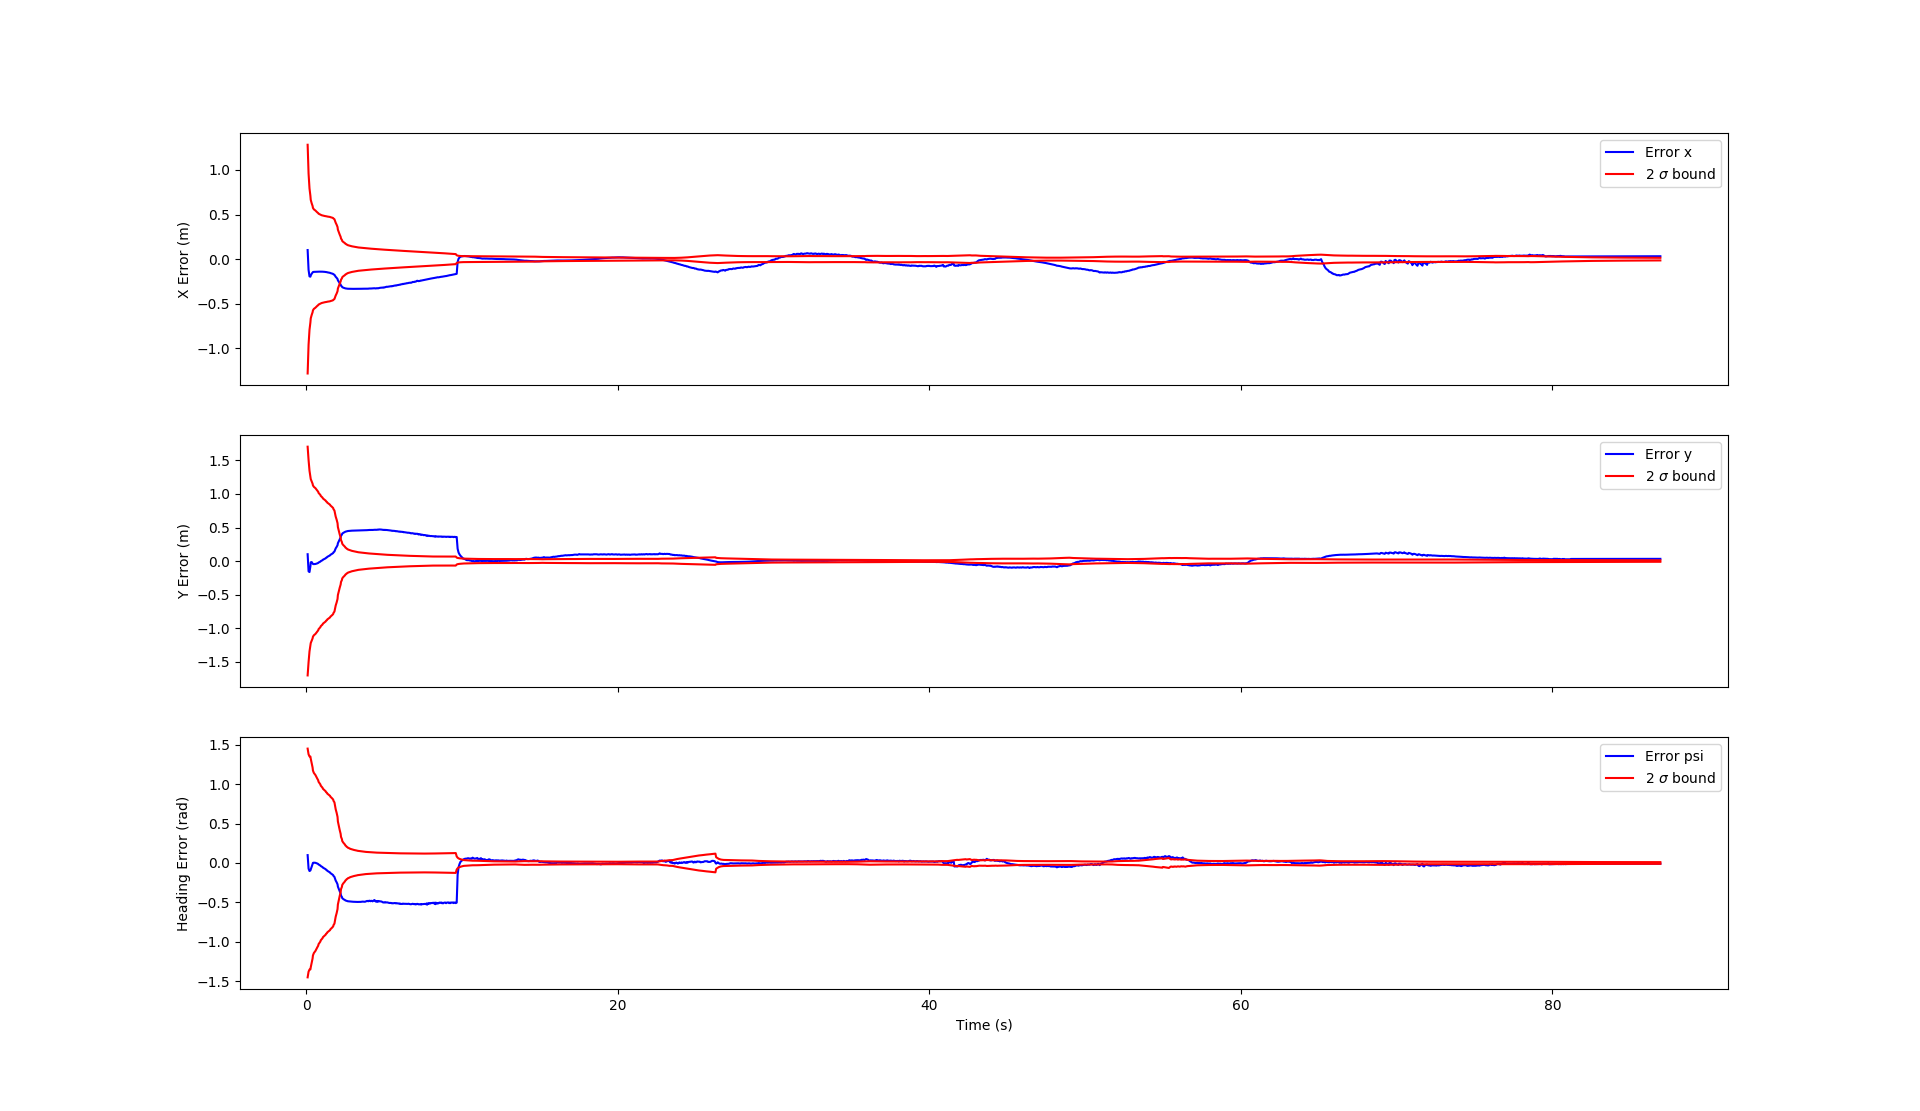
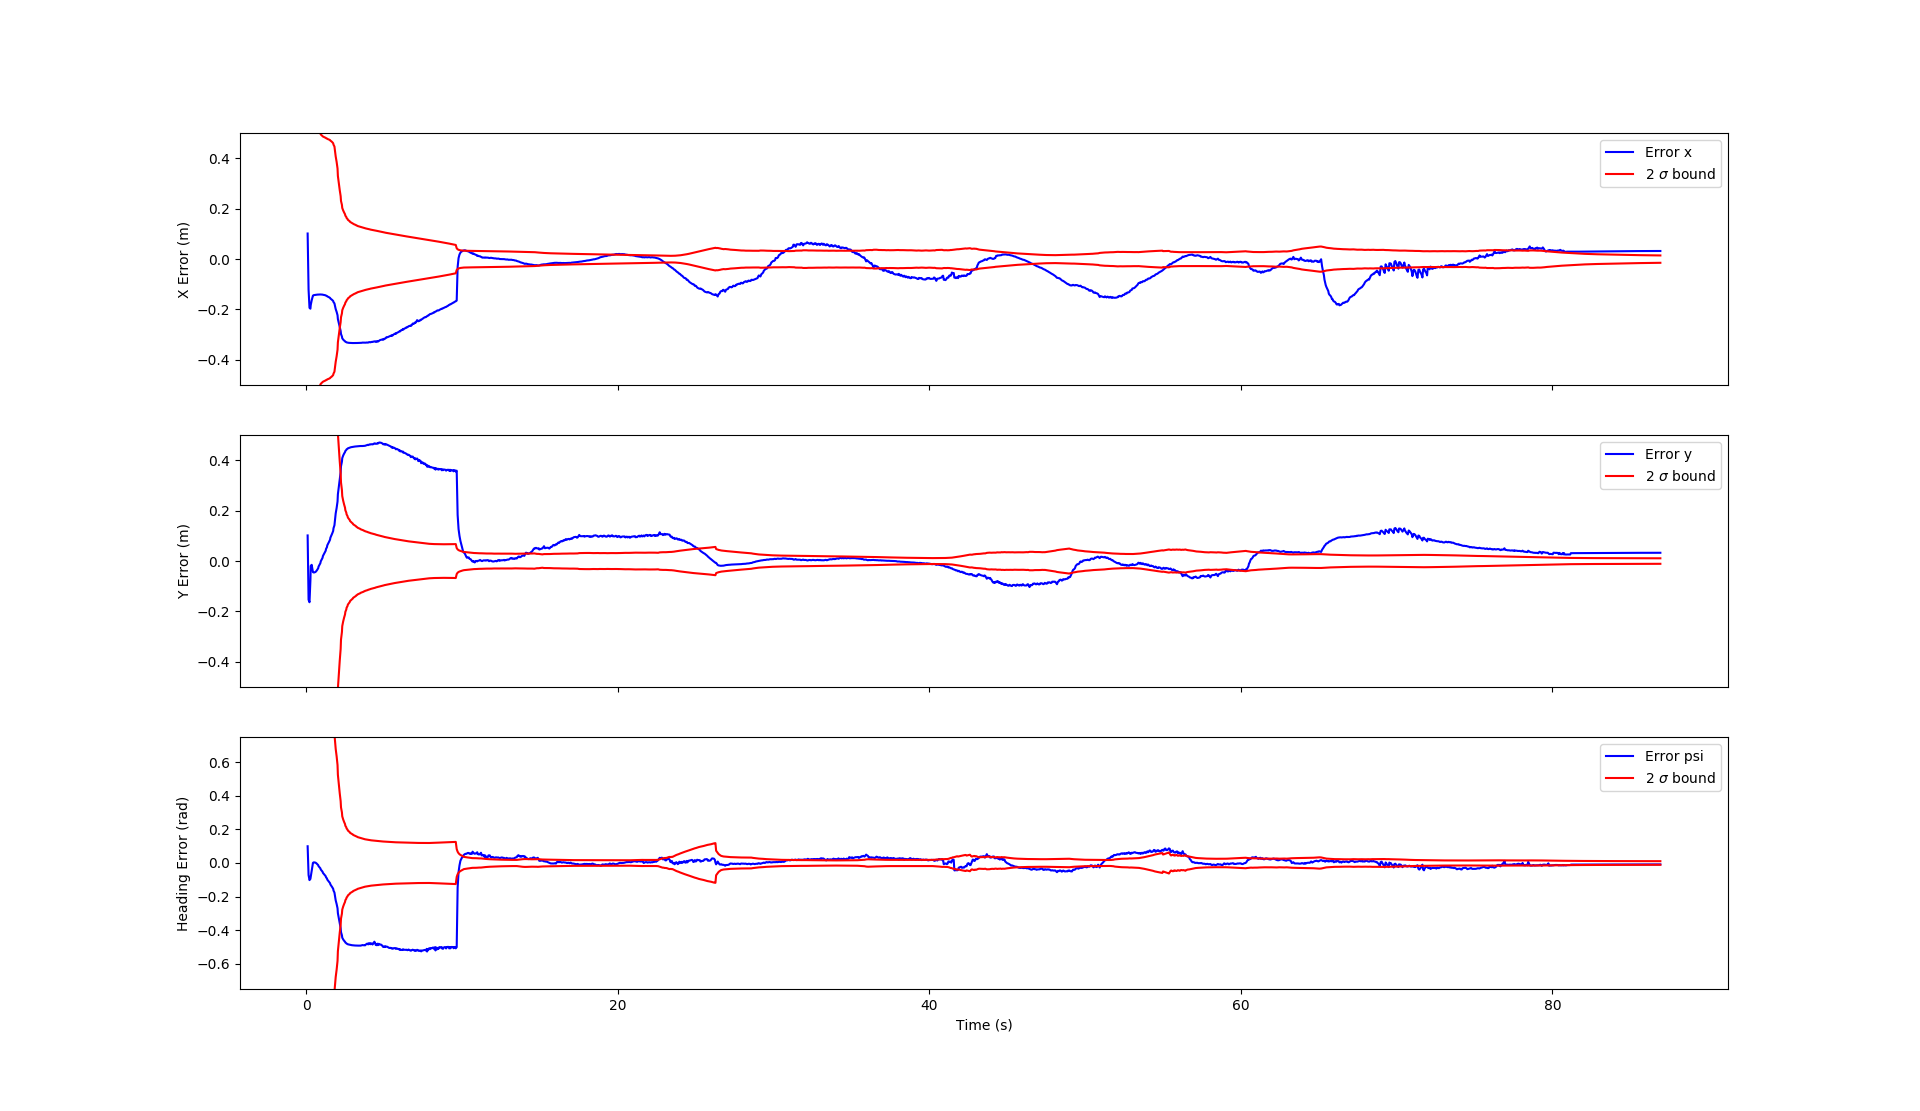
Updated learning bounds

diff --git a/localization/main.py b/localization/main.py
@@ -88,17 +88,20 @@ if __name__ == "__main__":
     ax2[0].plot(odom_t, sigma_hist[0,:], 'r', label="2 $\sigma$ bound")
     ax2[0].plot(odom_t, -sigma_hist[0,:], 'r')
     ax2[0].set_ylabel('X Error (m)')
+    ax2[0].set_ylim([-0.5, 0.5])
     ax2[0].legend()
     ax2[1].plot(odom_t, err_hist[1,:], 'b', label="Error y")
     ax2[1].plot(odom_t, sigma_hist[1,:], 'r', label="2 $\sigma$ bound")
     ax2[1].plot(odom_t, -sigma_hist[1,:], 'r')
     ax2[1].set_ylabel('Y Error (m)')
+    ax2[1].set_ylim([-0.5, 0.5])
     ax2[1].legend()
     ax2[2].plot(odom_t, err_hist[2,:], 'b', label="Error psi")
     ax2[2].plot(odom_t, sigma_hist[2,:], 'r', label="2 $\sigma$ bound")
     ax2[2].plot(odom_t, -sigma_hist[2,:], 'r')
     ax2[2].set_xlabel('Time (s)')
     ax2[2].set_ylabel('Heading Error (rad)')
+    ax2[2].set_ylim([-0.75, 0.75])
     ax2[2].legend()
     
     plt.show()
